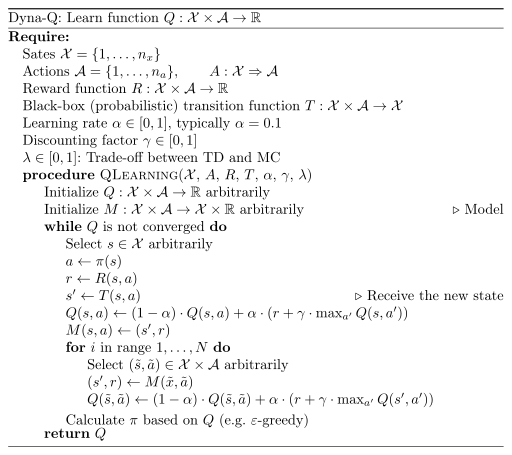
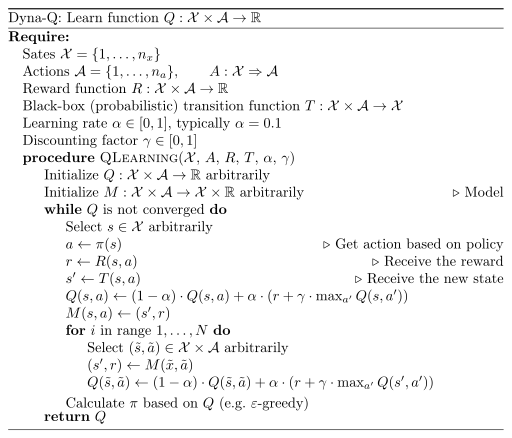
Fix Dyna-q

Changed region(s): [[0.0, 0.0, 1.0, 1.0], [0.875, 0.4155, 1.0, 0.4749], [0.75, 0.2078, 0.7812, 0.2671]]

diff --git a/source-code/Pseudocode/dyna-q/dyna-q.tex b/source-code/Pseudocode/dyna-q/dyna-q.tex
@@ -28,14 +28,13 @@
         \Statex Black-box (probabilistic) transition function $T: \mathcal{X} \times \mathcal{A} \rightarrow \mathcal{X}$
         \Statex Learning rate $\alpha \in [0, 1]$, typically $\alpha = 0.1$
         \Statex Discounting factor $\gamma \in [0, 1]$
-        \Statex $\lambda \in [0, 1]$: Trade-off between TD and MC
-        \Procedure{QLearning}{$\mathcal{X}$, $A$, $R$, $T$, $\alpha$, $\gamma$, $\lambda$}
+        \Procedure{QLearning}{$\mathcal{X}$, $A$, $R$, $T$, $\alpha$, $\gamma$}
             \State Initialize $Q: \mathcal{X} \times \mathcal{A} \rightarrow \mathbb{R}$ arbitrarily
             \State Initialize $M: \mathcal{X} \times \mathcal{A} \rightarrow \mathcal{X} \times \mathbb{R}$ arbitrarily \Comment{Model}
             \While{$Q$ is not converged}
                 \State Select $s \in \mathcal{X}$ arbitrarily
-                \State $a \gets \pi(s)$
-                \State $r \gets R(s, a)$
+                \State $a \gets \pi(s)$ \Comment{Get action based on policy}
+                \State $r \gets R(s, a)$ \Comment{Receive the reward}
                 \State $s' \gets T(s, a)$ \Comment{Receive the new state}
                 \State $Q(s, a) \gets (1 - \alpha) \cdot Q(s, a) + \alpha \cdot (r + \gamma \cdot \max_{a'} Q(s, a'))$
                 \State $M(s, a) \gets (s', r)$
